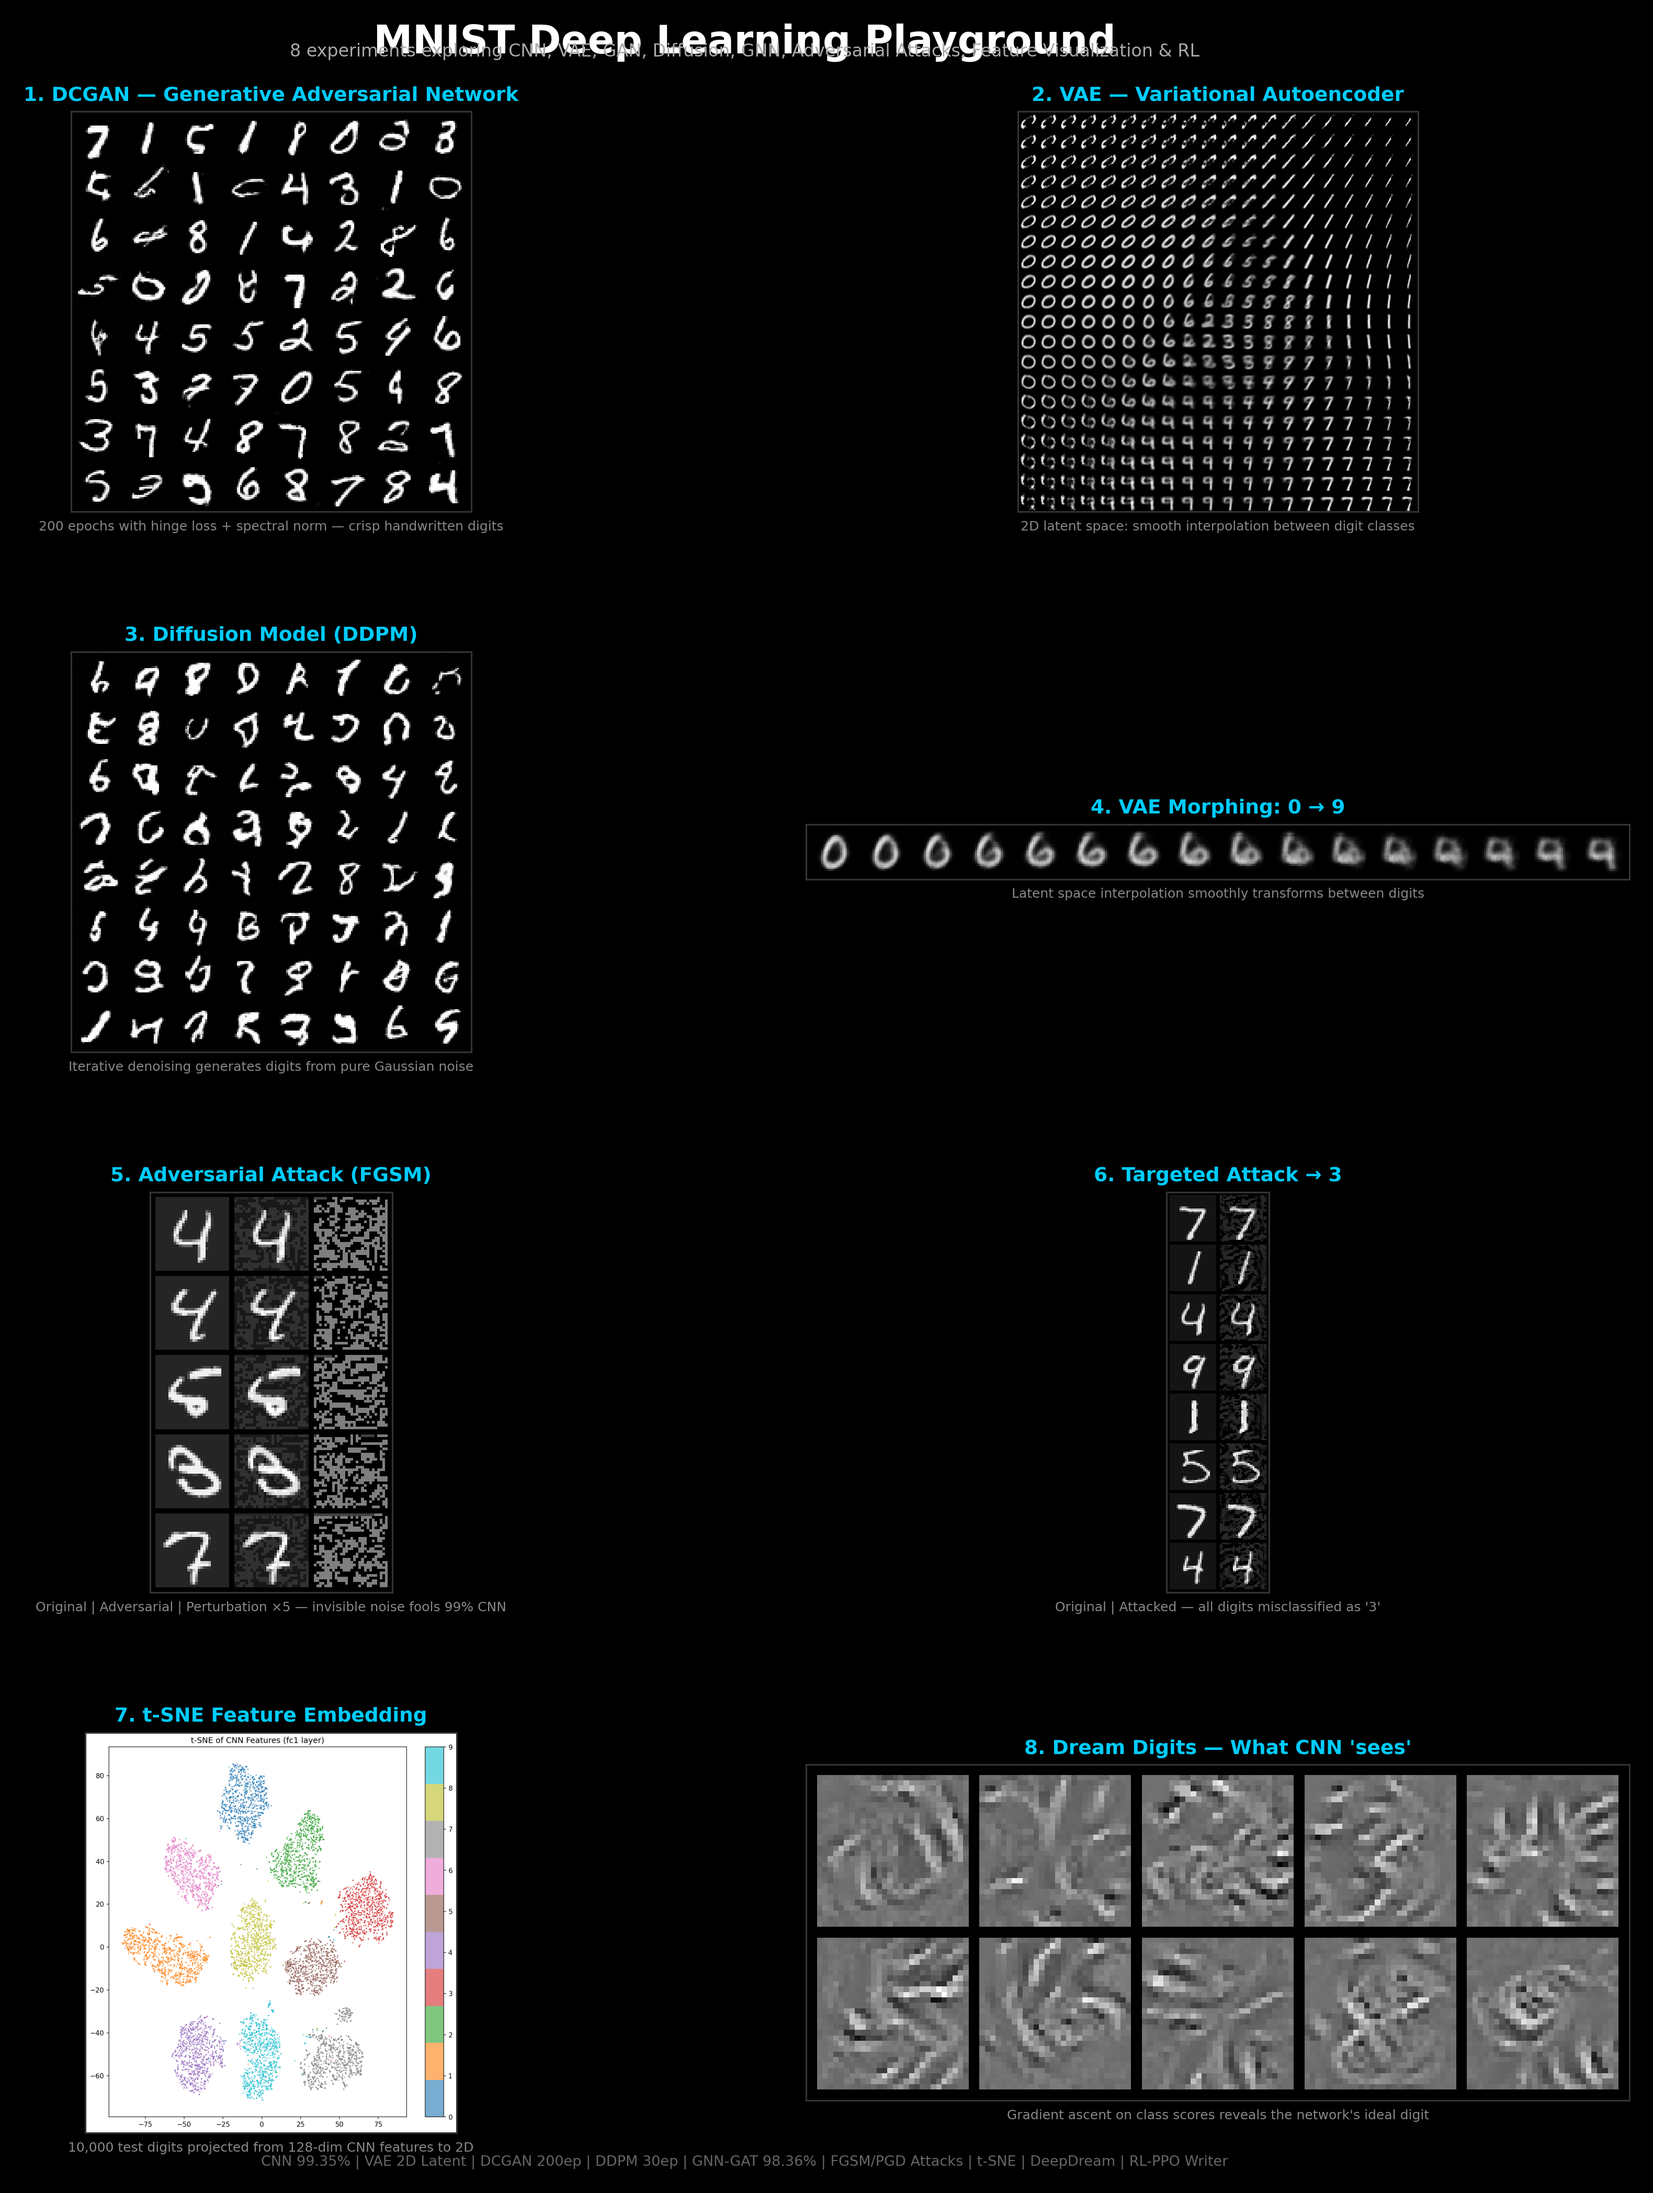
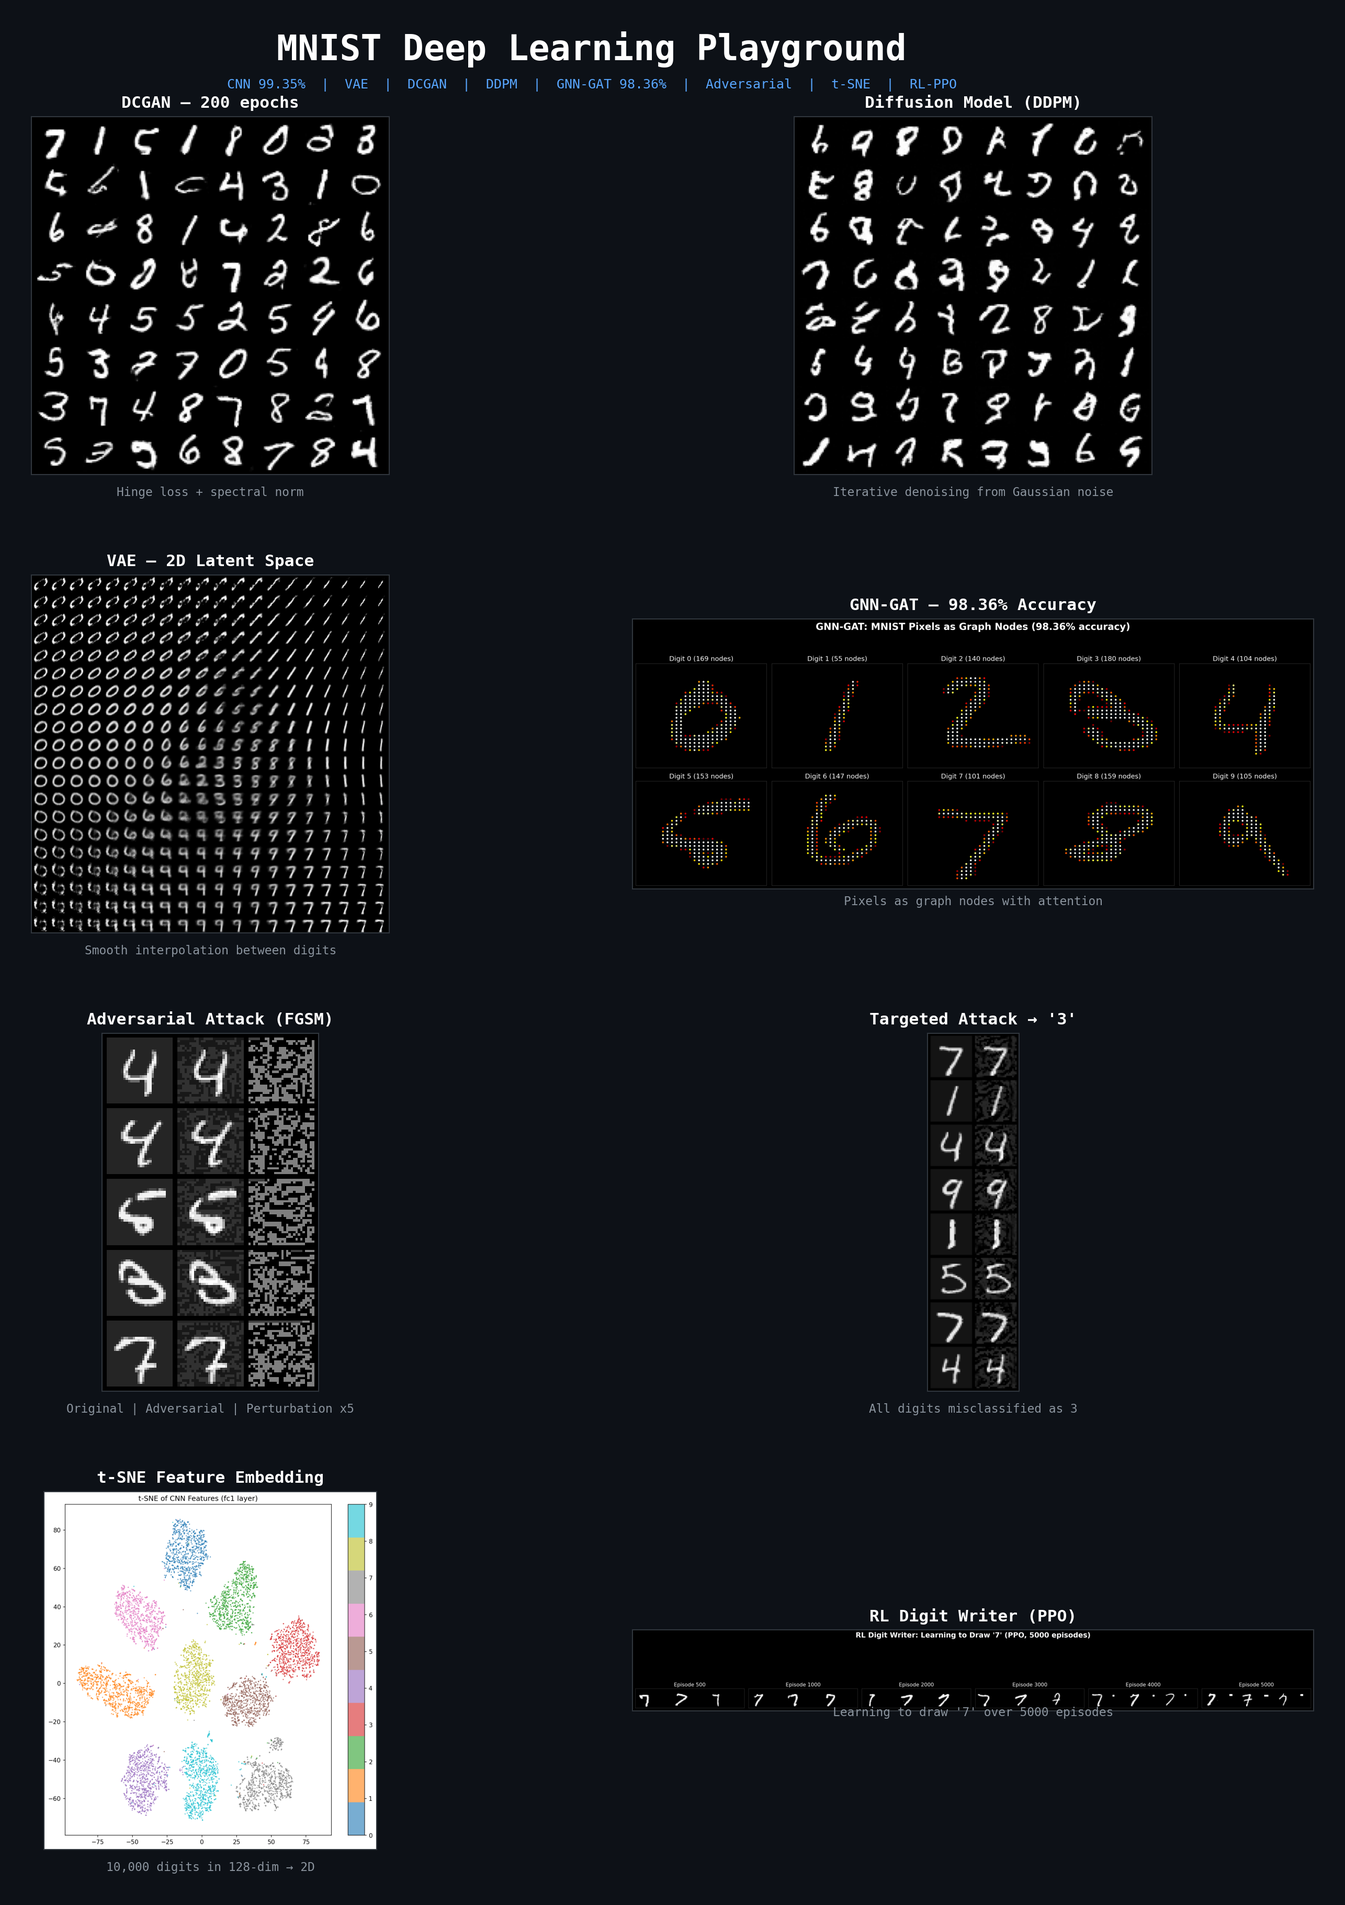
showcase 画像リニューアル + README 画像サイズ統一
- GitHub Dark テーマに合わせたデザイン
- 全画像を HTML img タグで幅指定 (400-700px)
- showcase を 4x2 グリッドで整理

diff --git a/make_showcase.py b/make_showcase.py
@@ -1,89 +1,93 @@
 """
-Generate a single high-quality showcase image combining all MNIST experiments.
-Layout: 4x2 grid with labels
+Generate a polished showcase image for README.
+Clean 4x2 grid, consistent sizing, proper padding.
 """
 import matplotlib
 matplotlib.use("Agg")
 import matplotlib.pyplot as plt
-import matplotlib.image as mpimg
 import matplotlib.gridspec as gridspec
+import matplotlib.image as mpimg
 import numpy as np
 from PIL import Image
 
-fig = plt.figure(figsize=(24, 28), facecolor="black")
-fig.suptitle("MNIST Deep Learning Playground", fontsize=36, color="white",
-             fontweight="bold", y=0.98)
-fig.text(0.5, 0.965,
-         "8 experiments exploring CNN, VAE, GAN, Diffusion, GNN, Adversarial Attacks, Feature Visualization & RL",
-         ha="center", fontsize=16, color="#aaaaaa")
+# Load and resize all images to consistent dimensions
+def load_and_pad(path, target_ratio=1.0):
+    """Load image and return as numpy array."""
+    try:
+        img = Image.open(path).convert("RGB")
+        return np.array(img)
+    except:
+        return np.zeros((100, 100, 3), dtype=np.uint8)
 
-gs = gridspec.GridSpec(4, 2, hspace=0.35, wspace=0.15,
-                       left=0.03, right=0.97, top=0.94, bottom=0.02)
+
+fig = plt.figure(figsize=(20, 24), facecolor="#0d1117")
+
+# Title area
+fig.text(0.5, 0.97, "MNIST Deep Learning Playground",
+         fontsize=32, color="white", fontweight="bold", ha="center",
+         fontfamily="monospace")
+fig.text(0.5, 0.955,
+         "CNN 99.35%  |  VAE  |  DCGAN  |  DDPM  |  GNN-GAT 98.36%  |  Adversarial  |  t-SNE  |  RL-PPO",
+         fontsize=12, color="#58a6ff", ha="center", fontfamily="monospace")
+
+gs = gridspec.GridSpec(4, 2, hspace=0.28, wspace=0.12,
+                       left=0.04, right=0.96, top=0.94, bottom=0.02)
 
 panels = [
-    # (row, col, image_path, title, description)
     (0, 0, "outputs/gan_final.png",
-     "1. DCGAN — Generative Adversarial Network",
-     "200 epochs with hinge loss + spectral norm — crisp handwritten digits"),
+     "DCGAN — 200 epochs",
+     "Hinge loss + spectral norm"),
 
-    (0, 1, "outputs/vae_latent_space.png",
-     "2. VAE — Variational Autoencoder",
-     "2D latent space: smooth interpolation between digit classes"),
+    (0, 1, "outputs/diffusion_epoch030.png",
+     "Diffusion Model (DDPM)",
+     "Iterative denoising from Gaussian noise"),
 
-    (1, 0, "outputs/diffusion_epoch030.png",
-     "3. Diffusion Model (DDPM)",
-     "Iterative denoising generates digits from pure Gaussian noise"),
+    (1, 0, "outputs/vae_latent_space.png",
+     "VAE — 2D Latent Space",
+     "Smooth interpolation between digits"),
 
-    (1, 1, "outputs/vae_morph_0_to_9.png",
-     "4. VAE Morphing: 0 → 9",
-     "Latent space interpolation smoothly transforms between digits"),
+    (1, 1, "outputs/gnn_graph_viz.png",
+     "GNN-GAT — 98.36% Accuracy",
+     "Pixels as graph nodes with attention"),
 
     (2, 0, "outputs/adversarial_fgsm.png",
-     "5. Adversarial Attack (FGSM)",
-     "Original | Adversarial | Perturbation ×5 — invisible noise fools 99% CNN"),
+     "Adversarial Attack (FGSM)",
+     "Original | Adversarial | Perturbation x5"),
 
     (2, 1, "outputs/targeted_attack_to_3.png",
-     "6. Targeted Attack → 3",
-     "Original | Attacked — all digits misclassified as '3'"),
+     "Targeted Attack → '3'",
+     "All digits misclassified as 3"),
 
     (3, 0, "outputs/tsne_features.png",
-     "7. t-SNE Feature Embedding",
-     "10,000 test digits projected from 128-dim CNN features to 2D"),
+     "t-SNE Feature Embedding",
+     "10,000 digits in 128-dim → 2D"),
 
-    (3, 1, "outputs/ideal_digits.png",
-     "8. Dream Digits — What CNN 'sees'",
-     "Gradient ascent on class scores reveals the network's ideal digit"),
+    (3, 1, "outputs/rl_progression.png",
+     "RL Digit Writer (PPO)",
+     "Learning to draw '7' over 5000 episodes"),
 ]
 
 for row, col, img_path, title, desc in panels:
     ax = fig.add_subplot(gs[row, col])
-    ax.set_facecolor("black")
+    ax.set_facecolor("#0d1117")
 
-    try:
-        img = mpimg.imread(img_path)
-        ax.imshow(img, cmap="gray" if img.ndim == 2 else None)
-    except Exception as e:
-        ax.text(0.5, 0.5, f"Missing:\n{img_path}", ha="center", va="center",
-                color="red", fontsize=14, transform=ax.transAxes)
+    img = load_and_pad(img_path)
+    ax.imshow(img)
 
-    ax.set_title(title, fontsize=18, color="#00ccff", fontweight="bold", pad=10)
-    ax.set_xlabel(desc, fontsize=12, color="#888888", labelpad=8)
+    ax.set_title(title, fontsize=15, color="white", fontweight="bold",
+                 pad=8, fontfamily="monospace")
+    ax.text(0.5, -0.06, desc, transform=ax.transAxes,
+            fontsize=11, color="#8b949e", ha="center", fontfamily="monospace")
     ax.set_xticks([])
     ax.set_yticks([])
     for spine in ax.spines.values():
-        spine.set_color("#333333")
-        spine.set_linewidth(1.5)
+        spine.set_color("#30363d")
+        spine.set_linewidth(1)
 
-# Footer
-fig.text(0.5, 0.005,
-         "CNN 99.35% | VAE 2D Latent | DCGAN 200ep | DDPM 30ep | GNN-GAT 98.36% | FGSM/PGD Attacks | t-SNE | DeepDream | RL-PPO Writer",
-         ha="center", fontsize=13, color="#666666")
-
-plt.savefig("showcase.png", dpi=150, facecolor="black", edgecolor="none",
-            bbox_inches="tight", pad_inches=0.3)
+plt.savefig("showcase.png", dpi=150, facecolor="#0d1117", edgecolor="none",
+            bbox_inches="tight", pad_inches=0.4)
 print("Saved: showcase.png")
 
-# Also make a smaller version for README
-plt.savefig("showcase_web.png", dpi=80, facecolor="black", edgecolor="none",
-            bbox_inches="tight", pad_inches=0.3)
+plt.savefig("showcase_web.png", dpi=90, facecolor="#0d1117", edgecolor="none",
+            bbox_inches="tight", pad_inches=0.4)
 print("Saved: showcase_web.png")

diff --git a/README.md b/README.md
@@ -2,7 +2,9 @@
 
 8 experiments exploring the full spectrum of deep learning — from basic classification to generative models, adversarial attacks, and reinforcement learning — all on MNIST.
 
-![Showcase](showcase_web.png)
+<p align="center">
+  <img src="showcase_web.png" width="800">
+</p>
 
 ## Experiments
 
@@ -50,39 +52,47 @@ python make_showcase.py
 
 ## Sample Outputs
 
+### DCGAN Generated Digits (200 epochs)
+
+<img src="outputs/gan_final.png" width="500">
+
 ### VAE Latent Space
+
 Smooth interpolation between digit classes in 2D latent space:
 
-![VAE Latent Space](outputs/vae_latent_space.png)
+<img src="outputs/vae_latent_space.png" width="500">
 
 ### VAE Morphing: 0 → 9
-![Morph](outputs/vae_morph_0_to_9.png)
 
-### DCGAN Generated Digits (200 epochs)
-![GAN](outputs/gan_final.png)
+<img src="outputs/vae_morph_0_to_9.png" width="600">
 
 ### Diffusion Model (DDPM)
-![Diffusion](outputs/diffusion_epoch030.png)
+
+<img src="outputs/diffusion_epoch030.png" width="500">
 
 ### Adversarial Attacks
+
 Invisible perturbations that fool a 99% accurate CNN:
 
-![Adversarial](outputs/adversarial_fgsm.png)
+<img src="outputs/adversarial_fgsm.png" width="400">
 
 ### GNN-GAT Classification (98.36%)
-Pixels converted to graph nodes with 8-neighbor edges. GAT with multi-head attention achieves 98.36% — remarkably close to CNN despite operating on sparse graphs:
 
-![GNN Graph Visualization](outputs/gnn_graph_viz.png)
+Pixels converted to graph nodes with 8-neighbor edges. GAT with multi-head attention achieves 98.36%:
+
+<img src="outputs/gnn_graph_viz.png" width="700">
 
 ### RL Digit Writer (PPO)
-A PPO agent learns to control a pen on a 28×28 canvas to draw the digit "7". Training progression over 5000 episodes:
 
-![RL Progression](outputs/rl_progression.png)
+PPO agent learns to control a pen on a 28x28 canvas. Training progression over 5000 episodes:
+
+<img src="outputs/rl_progression.png" width="700">
 
 ### t-SNE Feature Embedding
+
 10,000 test digits projected from 128-dim CNN features:
 
-![t-SNE](outputs/tsne_features.png)
+<img src="outputs/tsne_features.png" width="500">
 
 ## Requirements
 
